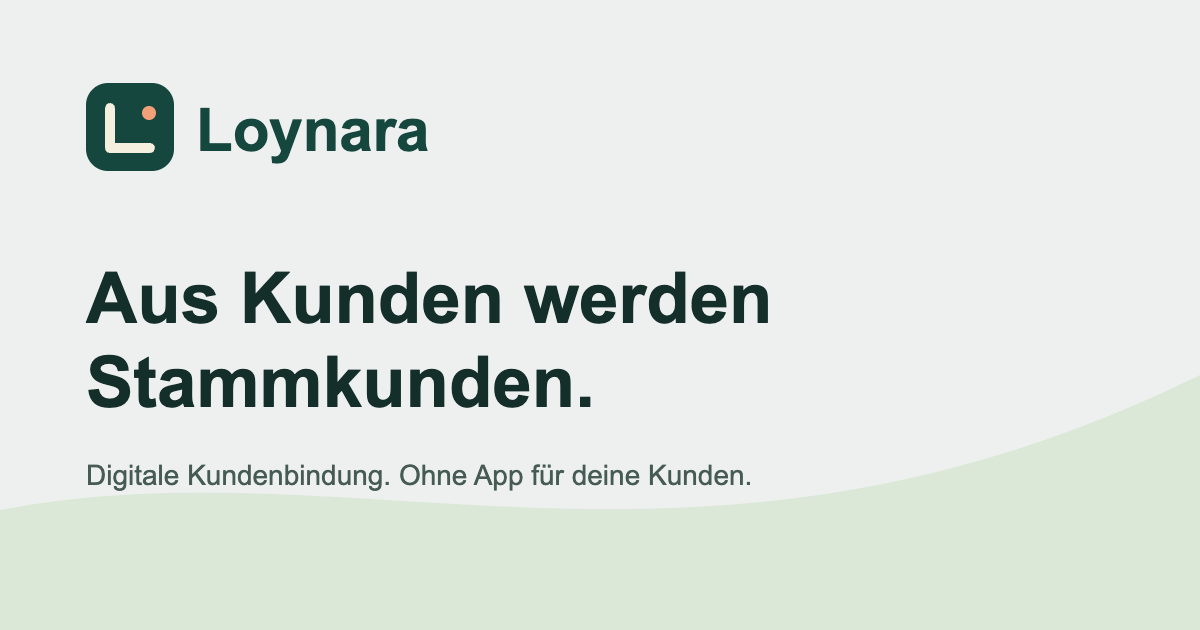
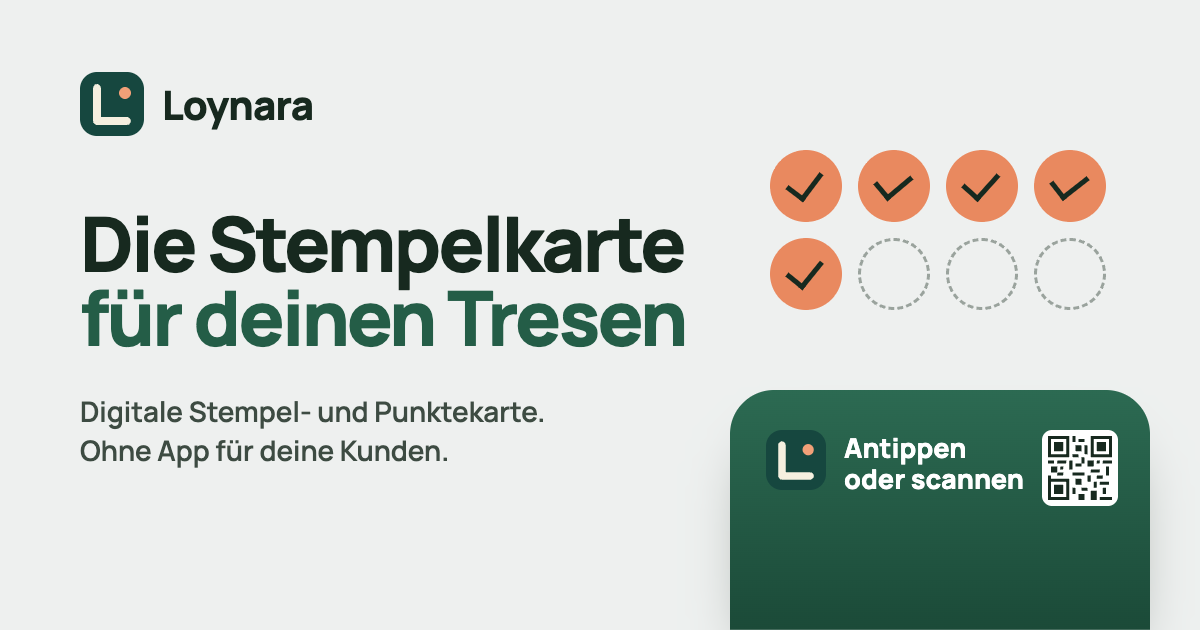
Give the share preview the page's title, the new description and the new image
The old share title and image promised a result ("Aus Kunden werden
Stammkunden"). The preview now carries the page title, a description in the
words of the meta description, and Design's new image with the stamp card and
the sign.

diff --git a/marketing-site/template.ts b/marketing-site/template.ts
@@ -6,12 +6,12 @@ import { subPageBody, type SubPage } from './src/pages.js';
 
 const TITLE = 'Loynara: Die Stempelkarte für deinen Tresen';
 const DESCRIPTION = `Digitale Stempel- und Punktekarte für kleine Geschäfte. Dein Team bestätigt jeden Stempel. ${SITE.price.amount} € pro Monat und Standort, erster Monat gratis.`;
-const SOCIAL_TITLE = 'Loynara – Aus Kunden werden Stammkunden';
-const SOCIAL_DESCRIPTION = `Digitale Kundenkarte für lokale Geschäfte. ${E.social} – dein Team bestätigt jeden Besuch.`;
+// The share preview says what the page title says; its entry sentence follows the release gate like the page's.
+const SOCIAL_DESCRIPTION = `Digitale Stempel- und Punktekarte für kleine Geschäfte. ${E.social}. Dein Team bestätigt jeden Stempel.`;
 const mark = '<img src="/assets/loynara-mark.svg" width="32" height="32" alt=""><span class="wordmark">Loynara</span>';
 export const escapeText = (s: string) => s.replace(/[&<>"']/g, c => ({ '&': '&amp;', '<': '&lt;', '>': '&gt;', '"': '&quot;', "'": '&#39;' }[c]!));
 
-export const head = (opts: { title: string; description: string; path: string; robots: string; social?: boolean; styles?: string }) => `<!doctype html><html lang="de" dir="ltr"><head><meta charset="utf-8"><meta name="viewport" content="width=device-width,initial-scale=1,viewport-fit=cover"><meta name="theme-color" content="#EEF0EF"><title>${opts.title}</title><meta name="description" content="${opts.description}"><meta name="robots" content="${opts.robots}"><link rel="canonical" href="${SITE.origin}${opts.path}"><link rel="icon" href="/assets/loynara-mark.svg" type="image/svg+xml"><meta property="og:type" content="website"><meta property="og:locale" content="de_DE"><meta property="og:site_name" content="Loynara"><meta property="og:title" content="${opts.social ? SOCIAL_TITLE : opts.title}"><meta property="og:description" content="${opts.social ? SOCIAL_DESCRIPTION : opts.description}"><meta property="og:url" content="${SITE.origin}${opts.path}"><meta property="og:image" content="${SITE.origin}/assets/social-preview.png"><meta property="og:image:width" content="1200"><meta property="og:image:height" content="630"><meta name="twitter:card" content="summary_large_image"><meta name="twitter:title" content="${opts.social ? SOCIAL_TITLE : opts.title}"><meta name="twitter:description" content="${opts.social ? SOCIAL_DESCRIPTION : opts.description}"><meta name="twitter:image" content="${SITE.origin}/assets/social-preview.png"><link rel="preload" href="/assets/fonts/manrope-latin.woff2" as="font" type="font/woff2" crossorigin><link rel="stylesheet" href="${opts.styles ?? '/styles.css'}">`;
+export const head = (opts: { title: string; description: string; path: string; robots: string; social?: boolean; styles?: string }) => `<!doctype html><html lang="de" dir="ltr"><head><meta charset="utf-8"><meta name="viewport" content="width=device-width,initial-scale=1,viewport-fit=cover"><meta name="theme-color" content="#EEF0EF"><title>${opts.title}</title><meta name="description" content="${opts.description}"><meta name="robots" content="${opts.robots}"><link rel="canonical" href="${SITE.origin}${opts.path}"><link rel="icon" href="/assets/loynara-mark.svg" type="image/svg+xml"><meta property="og:type" content="website"><meta property="og:locale" content="de_DE"><meta property="og:site_name" content="Loynara"><meta property="og:title" content="${opts.title}"><meta property="og:description" content="${opts.social ? SOCIAL_DESCRIPTION : opts.description}"><meta property="og:url" content="${SITE.origin}${opts.path}"><meta property="og:image" content="${SITE.origin}/assets/social-preview.png"><meta property="og:image:width" content="1200"><meta property="og:image:height" content="630"><meta name="twitter:card" content="summary_large_image"><meta name="twitter:title" content="${opts.title}"><meta name="twitter:description" content="${opts.social ? SOCIAL_DESCRIPTION : opts.description}"><meta name="twitter:image" content="${SITE.origin}/assets/social-preview.png"><link rel="preload" href="/assets/fonts/manrope-latin.woff2" as="font" type="font/woff2" crossorigin><link rel="stylesheet" href="${opts.styles ?? '/styles.css'}">`;
 
 export const header = (home: boolean) => {
   const base = home ? '' : '/';

diff --git a/marketing-site/site/index.html b/marketing-site/site/index.html
@@ -1,4 +1,4 @@
-<!doctype html><html lang="de" dir="ltr"><head><meta charset="utf-8"><meta name="viewport" content="width=device-width,initial-scale=1,viewport-fit=cover"><meta name="theme-color" content="#EEF0EF"><title>Loynara: Die Stempelkarte für deinen Tresen</title><meta name="description" content="Digitale Stempel- und Punktekarte für kleine Geschäfte. Dein Team bestätigt jeden Stempel. 49 € pro Monat und Standort, erster Monat gratis."><meta name="robots" content="index,follow"><link rel="canonical" href="https://getloynara.com/"><link rel="icon" href="/assets/loynara-mark.svg" type="image/svg+xml"><meta property="og:type" content="website"><meta property="og:locale" content="de_DE"><meta property="og:site_name" content="Loynara"><meta property="og:title" content="Loynara – Aus Kunden werden Stammkunden"><meta property="og:description" content="Digitale Kundenkarte für lokale Geschäfte. Antippen oder QR-Code, ohne App – dein Team bestätigt jeden Besuch."><meta property="og:url" content="https://getloynara.com/"><meta property="og:image" content="https://getloynara.com/assets/social-preview.png"><meta property="og:image:width" content="1200"><meta property="og:image:height" content="630"><meta name="twitter:card" content="summary_large_image"><meta name="twitter:title" content="Loynara – Aus Kunden werden Stammkunden"><meta name="twitter:description" content="Digitale Kundenkarte für lokale Geschäfte. Antippen oder QR-Code, ohne App – dein Team bestätigt jeden Besuch."><meta name="twitter:image" content="https://getloynara.com/assets/social-preview.png"><link rel="preload" href="/assets/fonts/manrope-latin.woff2" as="font" type="font/woff2" crossorigin><link rel="stylesheet" href="/home.css"><script type="module" src="/assets/home.js"></script><noscript><link rel="stylesheet" href="/home-static.css"></noscript></head>
+<!doctype html><html lang="de" dir="ltr"><head><meta charset="utf-8"><meta name="viewport" content="width=device-width,initial-scale=1,viewport-fit=cover"><meta name="theme-color" content="#EEF0EF"><title>Loynara: Die Stempelkarte für deinen Tresen</title><meta name="description" content="Digitale Stempel- und Punktekarte für kleine Geschäfte. Dein Team bestätigt jeden Stempel. 49 € pro Monat und Standort, erster Monat gratis."><meta name="robots" content="index,follow"><link rel="canonical" href="https://getloynara.com/"><link rel="icon" href="/assets/loynara-mark.svg" type="image/svg+xml"><meta property="og:type" content="website"><meta property="og:locale" content="de_DE"><meta property="og:site_name" content="Loynara"><meta property="og:title" content="Loynara: Die Stempelkarte für deinen Tresen"><meta property="og:description" content="Digitale Stempel- und Punktekarte für kleine Geschäfte. Antippen oder QR-Code, ohne App. Dein Team bestätigt jeden Stempel."><meta property="og:url" content="https://getloynara.com/"><meta property="og:image" content="https://getloynara.com/assets/social-preview.png"><meta property="og:image:width" content="1200"><meta property="og:image:height" content="630"><meta name="twitter:card" content="summary_large_image"><meta name="twitter:title" content="Loynara: Die Stempelkarte für deinen Tresen"><meta name="twitter:description" content="Digitale Stempel- und Punktekarte für kleine Geschäfte. Antippen oder QR-Code, ohne App. Dein Team bestätigt jeden Stempel."><meta name="twitter:image" content="https://getloynara.com/assets/social-preview.png"><link rel="preload" href="/assets/fonts/manrope-latin.woff2" as="font" type="font/woff2" crossorigin><link rel="stylesheet" href="/home.css"><script type="module" src="/assets/home.js"></script><noscript><link rel="stylesheet" href="/home-static.css"></noscript></head>
 <body>
 <a class="skip" href="#inhalt">Zum Inhalt springen</a>
 <svg class="defs" width="0" height="0" aria-hidden="true"><defs>

diff --git a/marketing-site/tests/site.test.ts b/marketing-site/tests/site.test.ts
@@ -127,6 +127,10 @@ test('the contact section states the honest mail-draft behaviour and promises no
 });
 test('metadata is complete and indexable; the page carries no inline style or script (CSP)', () => {
   assert.match(home, /<title>Loynara: Die Stempelkarte für deinen Tresen<\/title>/);
+  for (const name of ['property="og:title"', 'name="twitter:title"']) assert.ok(home.includes(`${name} content="Loynara: Die Stempelkarte für deinen Tresen"`), `${name} is the page title, not a promised result`);
+  for (const name of ['property="og:description"', 'name="twitter:description"']) assert.ok(home.includes(`${name} content="Digitale Stempel- und Punktekarte für kleine Geschäfte. Antippen oder QR-Code, ohne App. Dein Team bestätigt jeden Stempel."`), name);
+  const shareImage = readFileSync(resolve(import.meta.dirname, '../site/assets/social-preview.svg'), 'utf8');
+  assert.match(shareImage, /Die Stempelkarte/); assert.doesNotMatch(shareImage + home, /Aus Kunden werden Stammkunden/, 'the share preview names the product, it promises no result');
   assert.match(home, /name="description" content="Digitale Stempel- und Punktekarte für kleine Geschäfte\. Dein Team bestätigt jeden Stempel\. 49 € pro Monat und Standort, erster Monat gratis\."/);
   for (const marker of ['rel="canonical" href="https://getloynara.com/"', 'property="og:title"', 'property="og:description"', 'property="og:image"', 'name="twitter:card"', 'rel="icon"', 'name="robots" content="index,follow"', '<link rel="stylesheet" href="/home.css">', '<script type="module" src="/assets/home.js"></script>', '<a class="skip" href="#inhalt">Zum Inhalt springen</a>']) assert.ok(home.includes(marker), marker);
   assert.doesNotMatch(home, /\sstyle="|<style|<script(?![^>]*\ssrc=)|\son[a-z]+="/);
